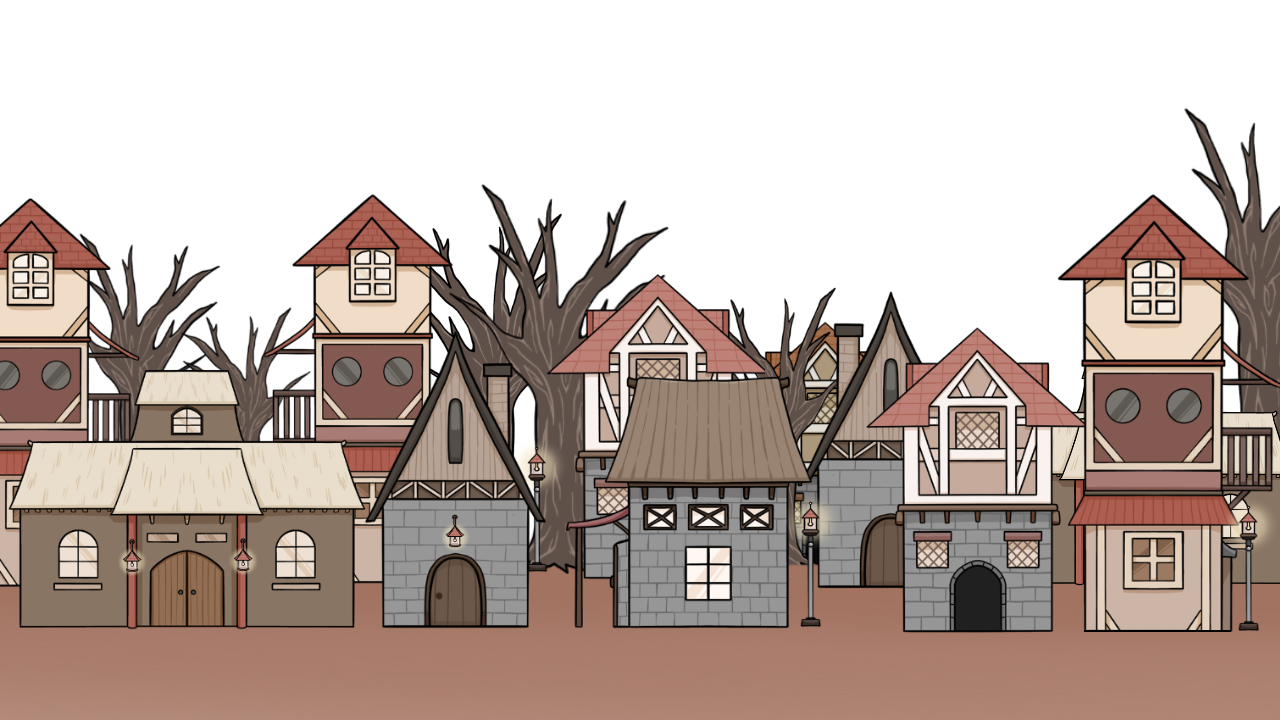
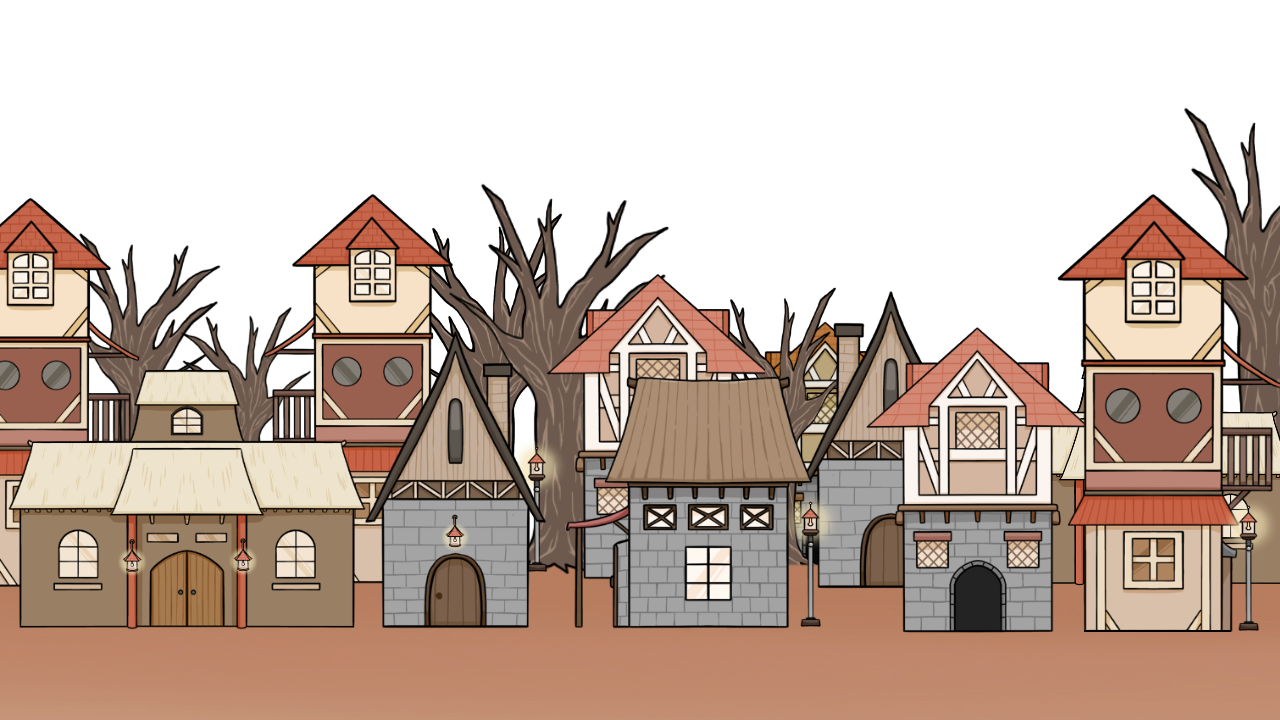
change menu background

diff --git a/beta3/menu.py b/beta3/menu.py
@@ -14,7 +14,9 @@ class MainMenu(GameScreen):
         self.BGCover = control.BGCover
         self.skyCover = control.skyCover
         self.woodBoard = control.woodBoard
-        self.angle = 0
+        self.skyPosition = 0
+        self.skyCoverWidth = self.skyCover.get_rect().width
+        #self.angle = 0
 
         # Image / Button goes here
         self.buttonHost = Button(300, 250, 100, 70)
@@ -59,17 +61,17 @@ class MainMenu(GameScreen):
             self.checkEvent()
             self.display.fill((0, 0, 0))
 
-            if self.angle >= 360:
-                self.angle = 0
-
-            self.skyRotated = pygame.transform.rotate(self.skyCover, self.angle)
-            self.skyRotateRect = self.skyRotated.get_rect(center = (670,670))
-            self.display.blit(self.skyRotated, self.skyRotateRect)
-            self.angle += 0.1
+            self.display.blit(self.skyCover, (self.skyPosition,0))
+            self.skyPosition -= 2.7
+            if self.skyPosition < -(self.skyCoverWidth - 1280):
+                self.display.blit(self.skyCover, (self.skyPosition + self.skyCoverWidth,0))
+            if self.skyPosition < -self.skyCoverWidth:
+                self.skyPosition = 0
 
             self.display.blit(self.BGCover, (0,0))
             self.display.blit(self.knightCover, (0,0))
-            self.display.blit(self.woodBoard, (145,30))
+            #self.display.blit(self.woodBoard, (145,30))
+            self.display.blit(self.woodBoard, (135,20))
 
             self.buttonOption.draw(self.display)
             self.changePageByButton(self.buttonOption, self.control.option)

diff --git a/beta3/gameControl.py b/beta3/gameControl.py
@@ -37,7 +37,7 @@ class GameSetting:
         #load game image
         self.knightCover = pygame.image.load("images\knightCover.PNG")
         self.BGCover = pygame.image.load("images\BGCover.PNG")
-        self.skyCover = pygame.image.load("images\skyCover.PNG")
+        self.skyCover = pygame.image.load("images\skyCover.JPG")
         self.woodBoard = pygame.image.load("images\woodBoard.PNG")
 
 class StateControl(GameSetting):
